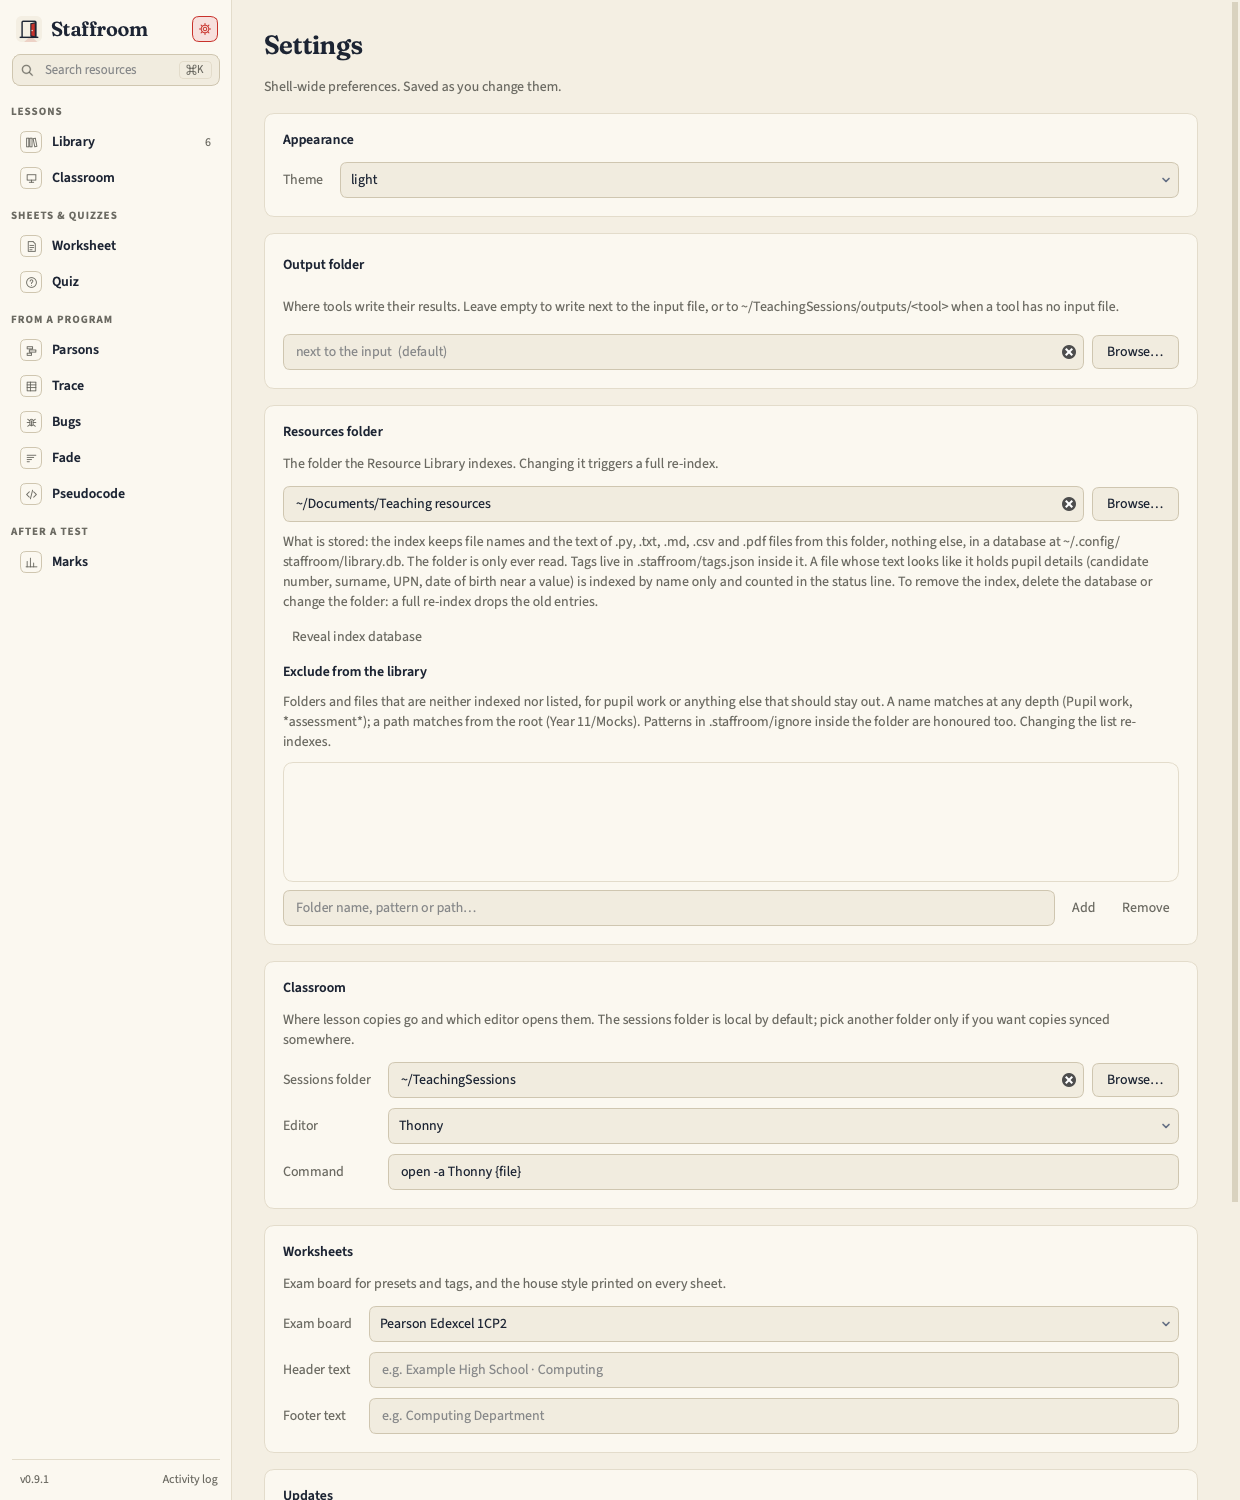
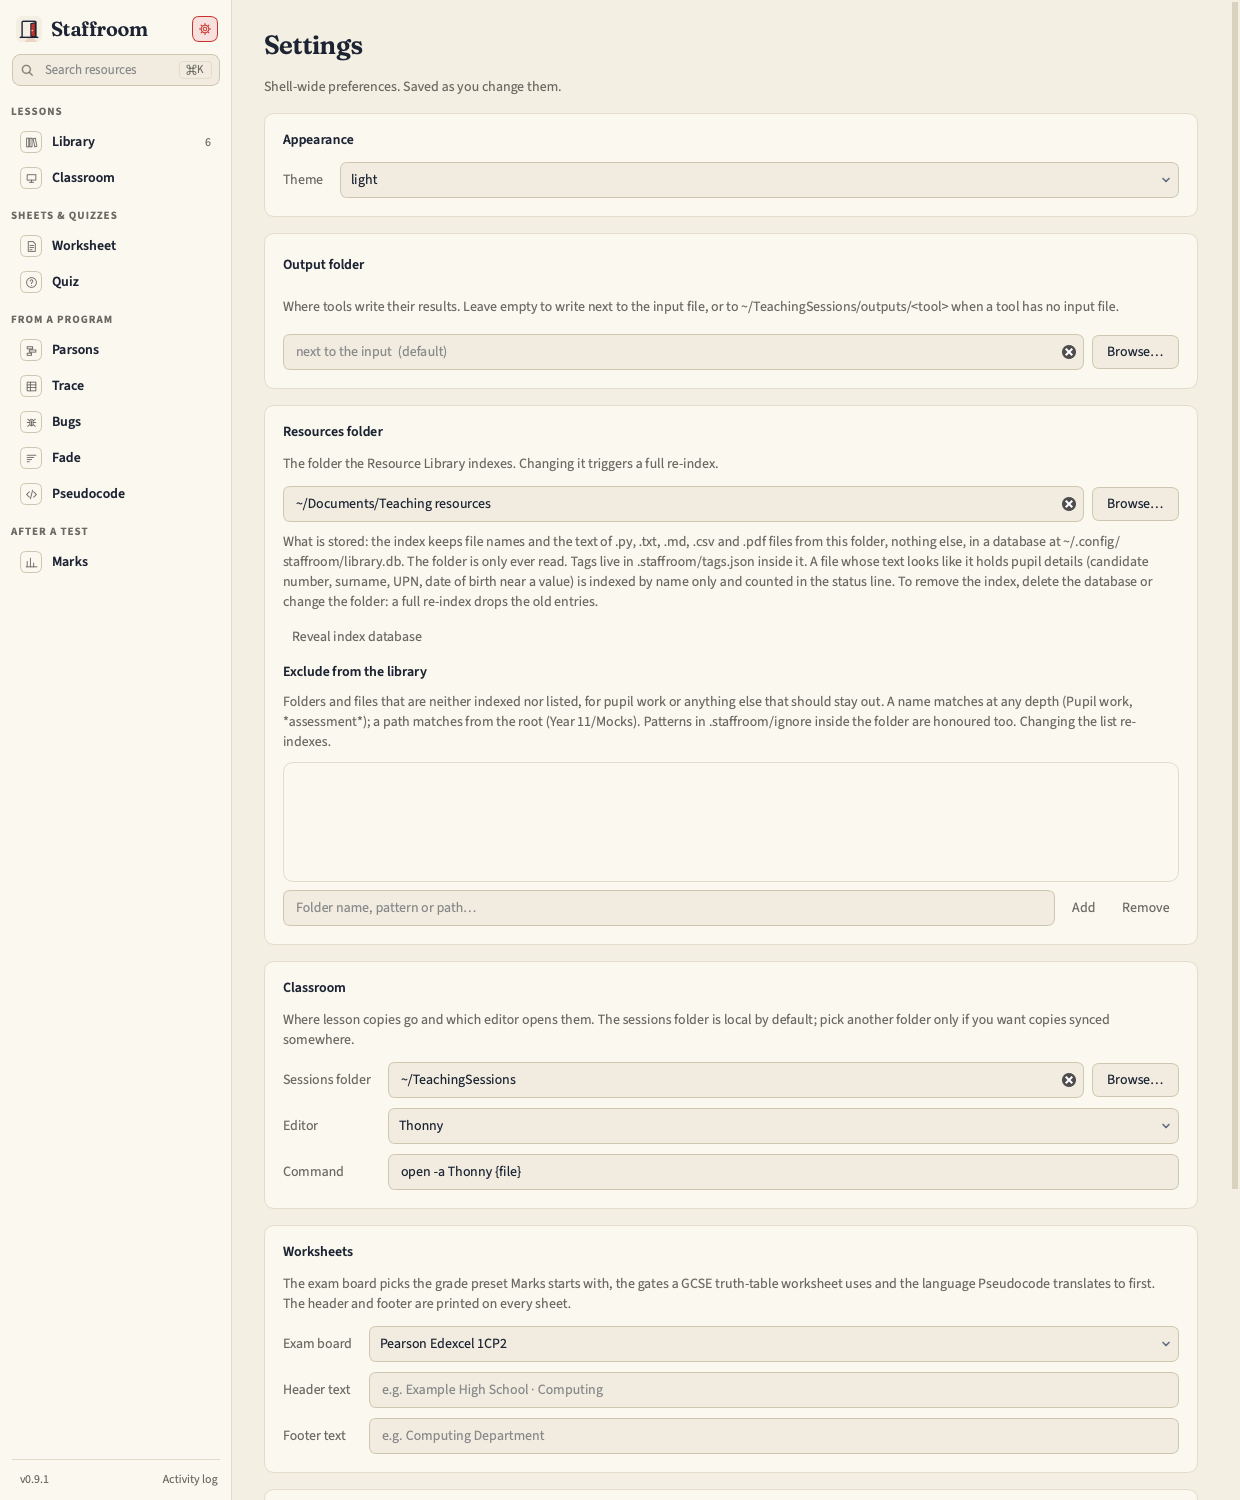
fix: Settings says what the Edexcel board changes; PR screenshots after rebasing on #49 (#62)
The Worksheets note now names Pseudocode's starting language too, and
staff marks run is tested to pick the Edexcel preset from Settings.

Changed region(s): [[0.2145, 0.828, 0.5823, 1.0], [0.8581, 0.828, 0.8887, 0.8587]]

diff --git a/src/staffroom/tools/marks/tests/test_plugin.py b/src/staffroom/tools/marks/tests/test_plugin.py
@@ -99,6 +99,11 @@ def test_cli_follows_the_exam_board_in_settings(example_marks_max: Path, tmp_pat
     r = runner.invoke(app, ["marks", "run", str(example_marks_max), "--out", str(tmp_path)])
     assert r.exit_code == 0, r.output
     assert "Boundaries:    AQA 8525 · %" in r.output
+    config.general.board = "edexcel"  # #62
+    config.save()
+    r = runner.invoke(app, ["marks", "run", str(example_marks_max), "--out", str(tmp_path)])
+    assert r.exit_code == 0, r.output
+    assert "Boundaries:    Edexcel 1CP2 · %" in r.output
     r = runner.invoke(
         app,
         ["marks", "run", str(example_marks_max), "-p", "A-level (A*-E)", "--out", str(tmp_path)],
